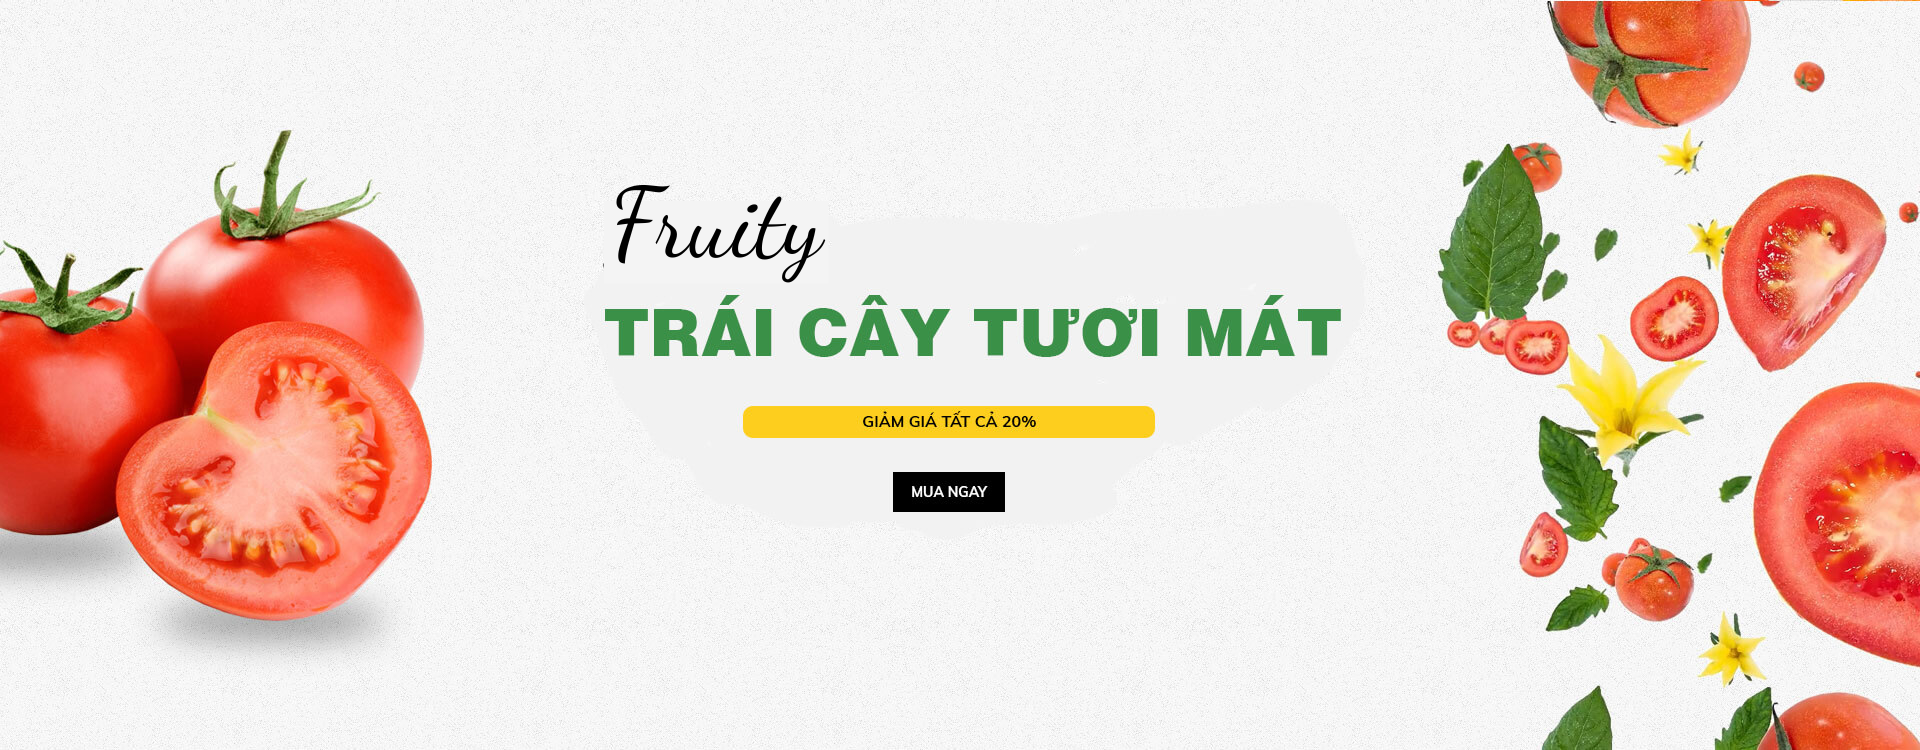
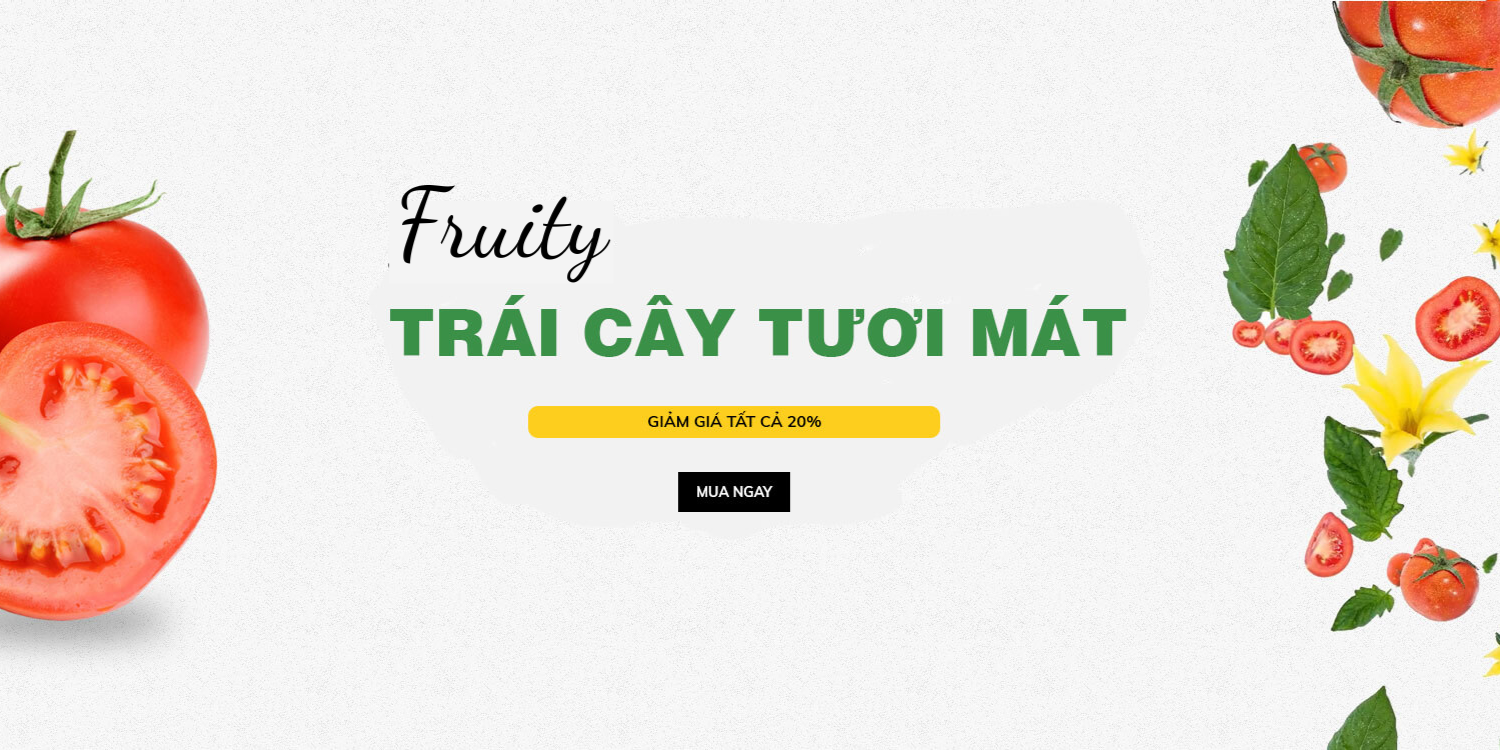
yen

diff --git a/assets/css/daytay.css b/assets/css/daytay.css
@@ -1,0 +1,221 @@
+*{
+    margin: 0;
+    padding: 0;
+    text-decoration: none;
+}
+
+.container{
+    width: 100%;
+    max-width: 1200px;
+    margin: 0 auto;
+}
+
+/* header */
+.header{
+    background-color: var(--white-color);
+    padding: 15px 0;
+    box-shadow: 0 2px 5px rgba(0, 0, 0, 0.1);
+}
+.header-content{
+    display: flex;
+    align-items: center;
+    justify-content: space-between;
+}
+.logo{
+    font-size: 3rem;
+    font-weight: bold;
+    color:  #2c6e49;
+}
+
+/* thanh search */
+.search-bar{
+    display: flex;
+    flex-grow: 1;
+    max-width: 500px;
+    margin: 0 20px;
+    position: relative;
+
+}
+.search-input{
+    width: 100%;
+    padding: 10px 15px;
+    border: 1px solid #ccc;
+    border-right: none;
+    border-radius: 50px 0 0 50px;
+    outline: none;
+}
+.search-btn{
+    background-color: #23b54e;
+    color: var(--white-color);
+    border: none;
+    padding: 0 15px;
+    border-radius: 0 50px 50px 0;
+    cursor: pointer;
+}
+
+/* liên hệ */
+.contact-info{
+    display: flex;
+    align-items: center;
+    gap: 20px;
+}
+.contact-item{
+    display: flex;
+    align-items: center;
+    gap: 10px;
+    color: var(--text-color);
+    font-size: 1.5rem;
+}
+.contact-icon{
+    color: #23b54e;
+    font-size: 2rem;
+}
+
+/* tài khoản */
+.user-actions{
+    display: flex;
+    align-items: center;
+    margin-left: 20px;
+}
+.account-dropdown{
+    position: relative;
+    margin-right: 15px;
+}
+.account-button{
+    background: transparent;
+    border: 1px solid #ddd;
+    padding: 10px 15px;
+    border-radius: 20px;
+    cursor: pointer;
+    display: flex;
+    align-items: center;
+    font-size: 1.5rem;
+}
+.account-button i{
+    margin-right: 10px;
+}
+.dropdown-menu{
+    position: absolute;
+    top: 100%;
+    right: 0;
+    width: 150px;
+    background-color: var(--white-color);
+    border: 1px solid #e0e0e0;
+    border-radius: 5px;
+    box-shadow: 0 5px 10px rgba(0, 0, 0, 0.1);
+    display: none;
+    z-index: 1000;
+    color: var(--text-color);
+}
+.dropdown-menu a{
+    display: block;
+    padding: 10px 15px;
+    color: var(--text-color);
+    font-size: 1.5rem;
+}
+.dropdown-menu a:hover{
+    background: #f5f5f5;
+}
+.account-dropdown:hover .dropdown-menu{
+    display: block;
+}
+
+/* giỏ hàng */
+.cart-btn{
+    position: relative;
+    background-color: #23b54e;
+    color: var(--white-color);
+    border: none;
+    width: 60px;
+    height: 60px;
+    border-radius: 50%;
+    display: flex;
+    align-items: center;
+    justify-content: center;
+    cursor: pointer;
+}
+.cart-btn i{
+    font-size: 2rem;
+}
+.cart-count{
+    position: absolute;
+    top: 0; right: 0;
+    background-color: #e74c3c;
+    color: var(--white-color);
+    font-size: 1.5rem;
+    width: 20px;
+    height: 20px;
+    border-radius: 50%;
+    display: flex;
+    align-items: center;
+    justify-content: center;
+    border: 1px solid #1e452d;
+}
+
+/* navbar */
+.navbar-wrapper{
+    height: 50px;
+}
+.navbar{
+    background-color: #1e452d;
+    padding: 0 20px;
+    font-size: 1.6rem;
+    width: 100%;
+    z-index: 1000;
+}
+.navbar.fixed{
+    position: fixed;
+    top: 0;
+    left: 0;
+}
+.nav-menu{
+    display: flex;
+    list-style: none;
+}
+.nav-item{
+    position: relative;
+}
+.nav-links{
+    display: block;
+    padding: 15px 20px;
+    color: var(--white-color);
+    font-weight: bold;
+    transition: background-color 0.3s;
+}
+.nav-links:hover, .nav-links.active{
+    background-color: #12b76a;
+}
+.dropdown-toggle::after{
+    content: "";
+    font-weight: 900;
+    margin-left: 5px;
+}
+.nav-dropdown{
+    position: absolute;
+    top: 100%; left: 0;
+    width: 200px;
+    background-color: white;
+    box-shadow: 0 5px 10px rgba(0, 0, 0, 0.1);
+    display: none;
+    z-index: 100;
+}
+.nav-dropdown a{
+    display: block;
+    padding: 10px 15px;
+    color: var(--text-color);
+    border-bottom: 1px solid #eee;
+}
+.nav-dropdown a:hover{
+    background: #f5f5f5;
+}
+.nav-item:hover .nav-dropdown{
+    display: block;
+}
+.flash-sale{
+    display: flex;
+    align-items: center;
+    margin-left: auto;
+    color: var(--white-color);
+    font-weight: bold;
+}
+

diff --git a/dautay.html b/dautay.html
@@ -1,0 +1,105 @@
+<!DOCTYPE html>
+<html lang="en">
+<head>
+    <meta charset="UTF-8">
+    <meta name="viewport" content="width=device-width, initial-scale=1.0">
+    <title>Dây tây</title>
+    <link rel="stylesheet" href="/assets/css/base.css">
+    <link rel="stylesheet" href="/assets/css/daytay.css">
+    <link href="https://fonts.googleapis.com/css2?family=Roboto:ital,wght@0,100..900;1,100..900&display=swap" rel="stylesheet">
+    <link rel="stylesheet" href="/assets/fontawesome-free-5.15.4-web/css/all.min.css">
+    <link rel="stylesheet" href="/assets/fontawesome-free-5.15.4-web/js/all.min.js">
+</head>
+<body>
+    <header class="header">
+        <div class="container header-content">
+            <a href="#" class="logo">Fruity</a>
+
+            <div class="search-bar">
+                <input type="text" class="search-input" placeholder="Tìm kiếm sản phẩm">
+                <button class="search-btn">
+                    <i class="fas fa-search"></i>
+                </button>
+            </div>
+
+            <!-- liên hệ -->
+            <div class="contact-info">
+                <div class="contact-item">
+                    <i class="fas fa-phone contact-icon"></i>
+                    <div>
+                        <div>Hotline:</div>
+                        <div>19002004</div>
+                    </div>
+                </div>
+
+                <div class="contact-item">
+                    <i class="fas fa-envelope contact-icon"></i>
+                    <div>
+                        <div>Email:</div>
+                        <div>support@fruity.vn</div>
+                    </div>
+                </div>
+            </div>
+
+            <!-- tài khoản -->
+            <div class="user-actions">
+               <div class="account-dropdown">
+                    <button class="account-button">
+                        <i class="fas fa-user"></i>
+                        Tài Khoản
+                    </button>
+                    <div class="dropdown-menu">
+                        <a href="#" class="account-item">Đăng Nhập</a>
+                        <a href="#" class="account-item">Đăng Ký</a>
+                   </div>
+               </div>
+
+               <!-- giỏ hàng -->
+                <a href="#" class="cart-btn">
+                    <i class="fas fa-shopping-cart"></i>
+                    <span class="cart-count">0</span>
+                </a>
+            </div>
+        </div>
+    </header>
+
+    <!-- navbar -->
+    <div class="navbar-wrapper">
+        <div class="navbar" id="navbar">
+            <div class="container">
+                <ul class="nav-menu">
+                    <li class="nav-item">
+                        <a href="#" class="nav-links active">Trang Chủ</a>
+                    </li>
+                    <li class="nav-item">
+                        <a href="#" class="nav-links">Giới Thiệu</a>
+                    </li>
+                    <li class="nav-item">
+                        <a href="#" class="nav-links dropdown-toggle">Sản Phẩm <i class="fas fa-chevron-down"></i></a>
+                        <div class="nav-dropdown">
+                            <a href="#" class="dropdown-item">Trái Cây</a>
+                            <a href="#" class="dropdown-item">Trái Cây Việt</a>
+                            <a href="#" class="dropdown-item">Trái Cây Nhập Khẩu</a>
+                            <a href="#" class="dropdown-item">Trái Cây Khô</a>
+                        </div>
+                    </li>
+                    <li class="nav-item">
+                        <a href="#" class="nav-links">Tin Tức</a>
+                    </li>
+                    <li class="nav-item">
+                        <a href="#" class="nav-links">Liên Hệ</a>
+                    </li>
+
+                    <div class="flash-sale">
+                        <i class="fas fa-bolt"></i>
+                        Flash Sale
+                    </div>
+                </ul>
+            </div>
+        </div>
+    </div>
+
+    <!-- hh -->
+    
+</body>
+</html>

diff --git a/index.html b/index.html
@@ -100,7 +100,7 @@
             </div>
         </div>
         
-        <div class="banner-1"></div>
+        <div class="banner-1"></div> 
 
     <!-- phần của thu -->
      <!-- Banner Section -->
@@ -295,8 +295,9 @@
         </div>
     </div>
 
-    <!-- Banner phụ -->
+    <!-- banner và sản phảm tin dùng -->
      <div class="container">
+        <!-- Banner phụ -->
         <div class="features">
             <div class="feature-item">
                 <i class="fas fa-rocket feature-icon"></i>
@@ -323,6 +324,7 @@
             </div>
         </div>
 
+        <!-- sản phẩm tin dùng -->
         <h2 class="section-title">SẢN PHẨM TIN DÙNG</h2>
 
         <div class="products">

diff --git a/assets/css/main.css b/assets/css/main.css
@@ -221,10 +221,10 @@
 
 /* banner chính */
 .banner-1{
-    background-image: url(/assets/img/bann.png);
-    background-size: 100% auto;
-    background-repeat: no-repeat;
-    width: 100%;
+    max-width: 100%;
+    height: 750px;
+    background-image: url(/assets/img/Banner-1.png);
+    background-size: cover;
 }
 
 /* banner của thu */
